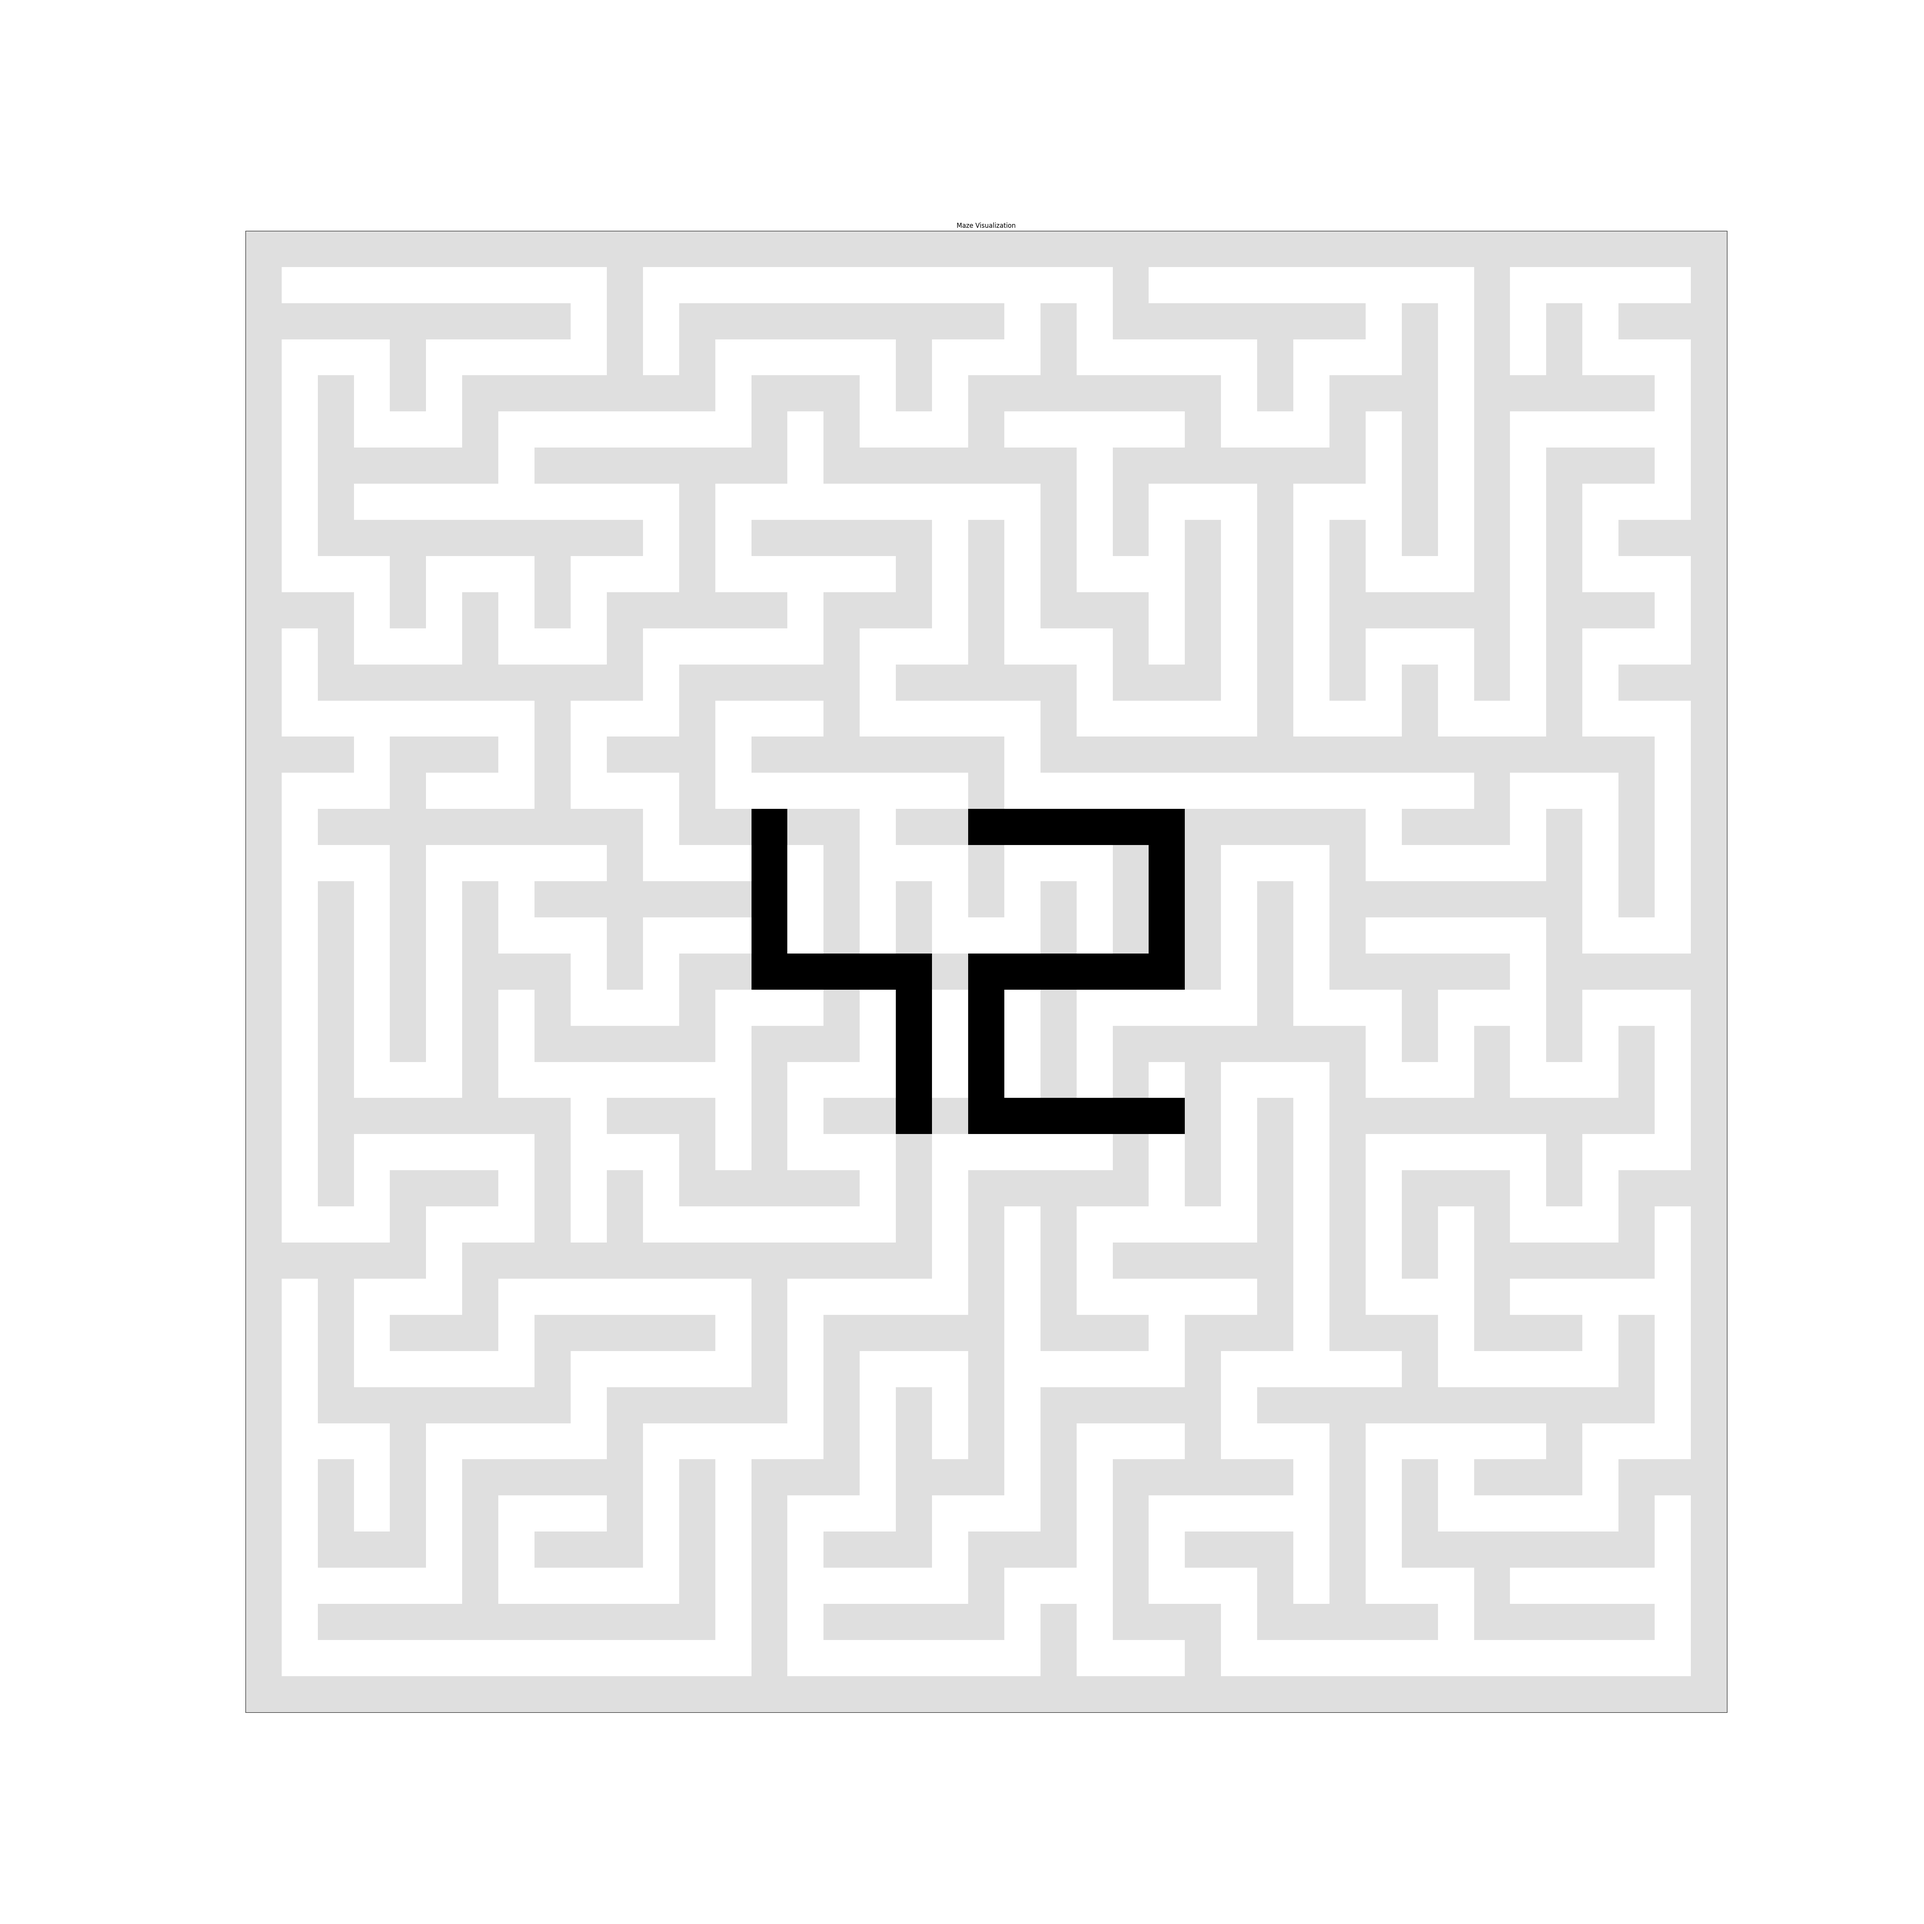
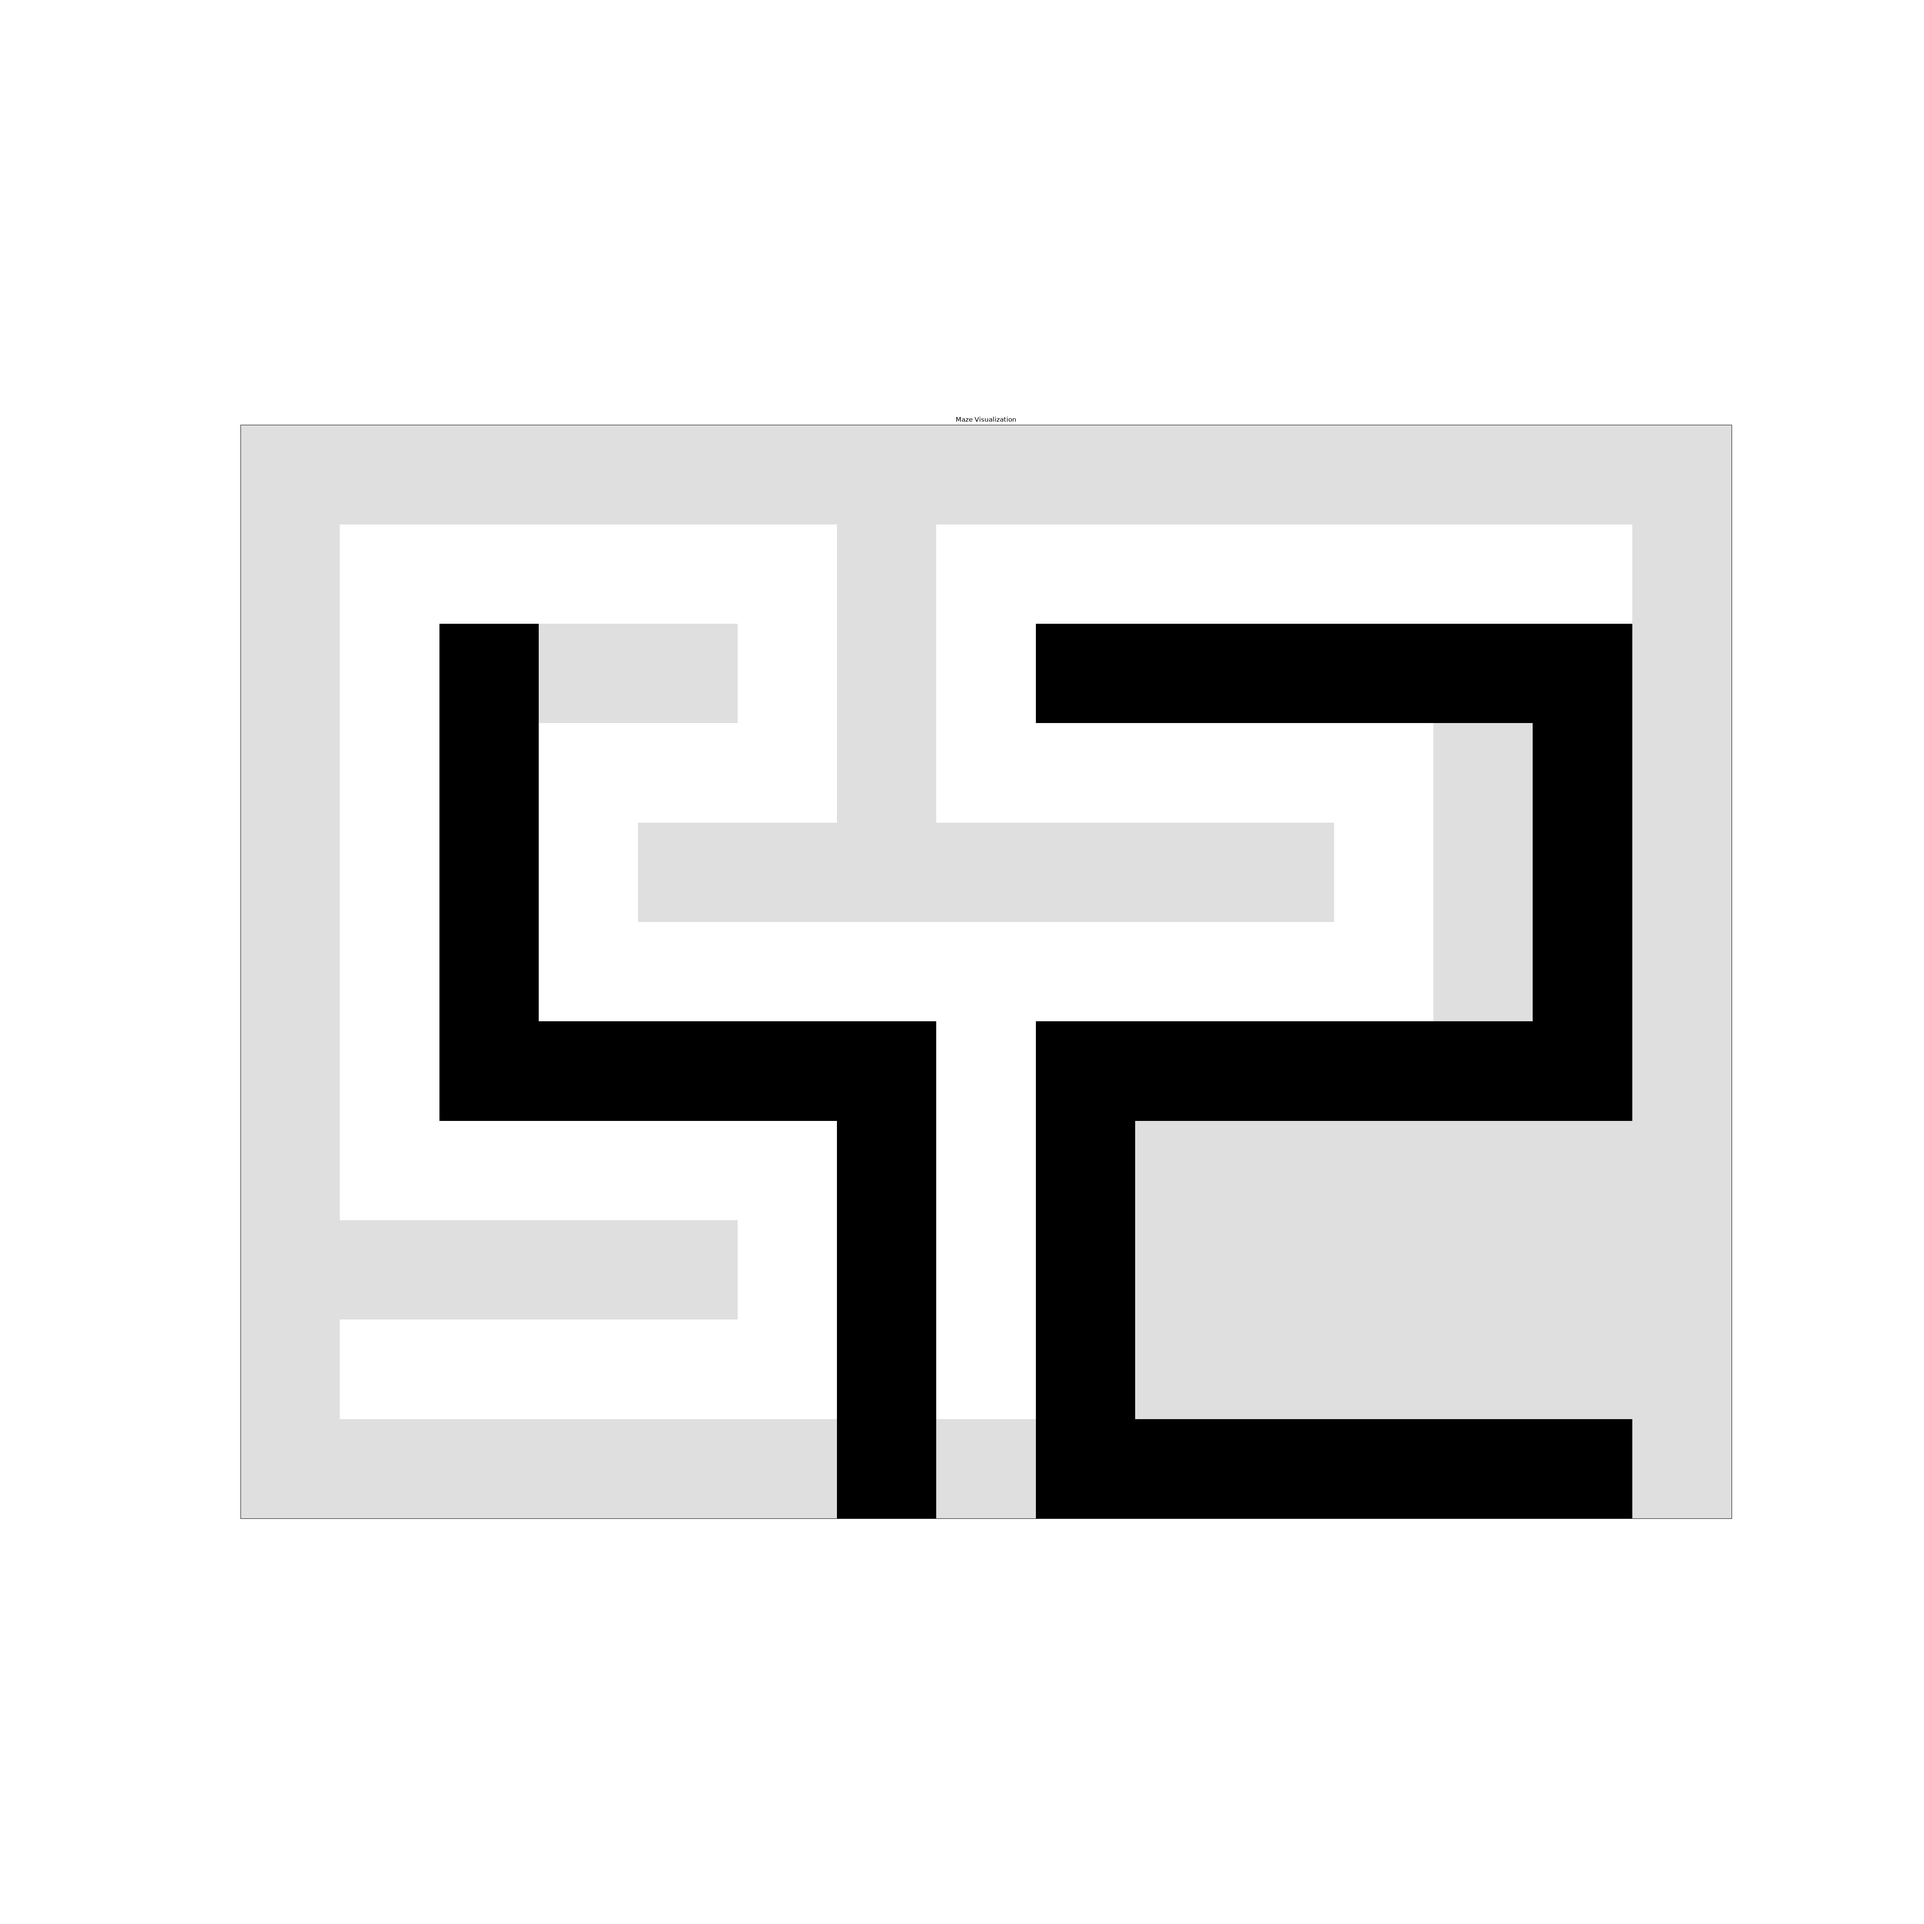
maze generator file

diff --git a/maze_first.py b/maze_first.py
@@ -3,61 +3,42 @@ import random
 import matplotlib.pyplot as plt
 
 def left(a, b, h, w, maze):
-    if (b-2 < 0):
-        return False
-    elif (maze[a][b-2] == 0):
-                return False
-    elif (maze[a][b-2] == 8):
-                    return False
+
+    if b-2 > 0 and maze[a][b-2] == 1 and maze[a][b-1] != 8:
+         maze[a][b-2] = 0
+         maze[a][b-1] = 0
+         return((a, b-2))
     else:
-        maze[a][b-2] = 0
-        if maze[a][b-1] == 1:
-            maze[a][b-1] = 0
-        return((a, b-2))
+         return False
 
 def right(a, b, h, w, maze):
-    if(b+2 > w*2):
-        return False
-    elif(maze[a][b+2] == 0):
-         return False
-    elif(maze[a][b+2] == 8):
-             return False
 
+    if  b+2 < w*2 and maze[a][b+2] == 1 and maze[a][b+1] != 8:
+         maze[a][b+2] = 0
+         maze[a][b+1] = 0
+         return((a, b+2))
     else:
-        maze[a][b+2] = 0
-        if maze[a][b+1] == 1:
-            maze[a][b+1] = 0
-        return((a, b+2))
+         return False
 
 
 def up(a, b, h, w, maze):
-    if (a-2 < 0):
-            return False
-    elif (maze[a-2][b] == 0):
-         return False
-    elif (maze[a-2][b] == 8):
-        return False
 
+    if  a-2 > 0 and maze[a-2][b] == 1 and maze[a-1][b] != 8:
+         maze[a-2][b] = 0
+         maze[a-1][b] = 0
+         return((a-2, b))
     else:
-        maze[a-2][b] = 0
-        if maze[a-1][b] == 1:
-            maze[a-1][b] = 0
-        return((a-2, b))
+         return False
 
 def down(a, b, h, w, maze):
-    if(a+2 > h*2):
-            return False
-    elif(maze[a+2][b] == 0):
-         return False
-    elif(maze[a+2][b] == 8):
-             return False
-        
+    
+    if  a+2 < h*2 and maze[a+2][b] == 1 and maze[a+1][b] != 8:
+         maze[a+2][b] = 0
+         maze[a+1][b] = 0
+         return((a+2, b))
     else:
-        maze[a+2][b] = 0
-        if maze[a+1][b] == 1:
-            maze[a+1][b] = 0
-        return((a+2, b))
-
+         return False
+    
 def creat_maze(h, w):
     maze = np.ones((h*2+1, w*2+1))
 
@@ -78,8 +59,11 @@ def creat_maze(h, w):
         [1,1,1,1,1,8,1,8,8,8,8,8,8]
     ]
 
+    try:
+        maze[a: a+10, b:b+13] = pattern
+    except ValueError :
+         print('Error : cant generate maze smaller than hight = 5 and width = 7')
 
-    maze[a: a+10, b:b+13] = pattern
 
     x, y = (1, 1)
     maze[x, y] = 0
@@ -100,11 +84,9 @@ def creat_maze(h, w):
              
     return maze
 
-#print(creat_maze(10,10))
-
 
 plt.figure(figsize=(50, 50))
-plt.imshow(creat_maze(20, 20), cmap="binary")  # 'binary' turns 0 to white and 1 to black
+plt.imshow(creat_maze(5, 7), cmap="binary")  # 'binary' turns 0 to white and 1 to black
 plt.xticks([])  # Remove x-axis tick marks
 plt.yticks([])  # Remove y-axis tick marks
 plt.title("Maze Visualization")
